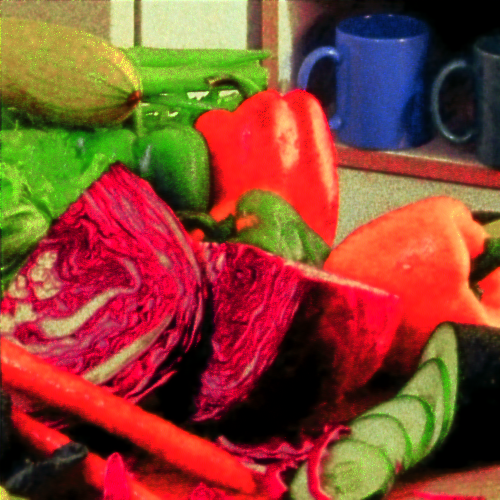
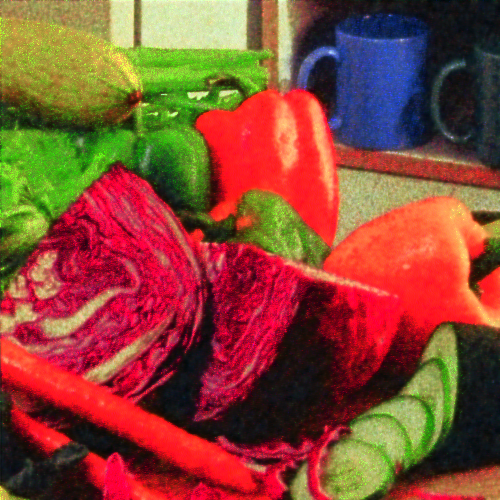
latest commit

diff --git a/random_noise.py b/random_noise.py
@@ -1,0 +1,55 @@
+import os
+import cv2
+import numpy as np
+from skimage import util, io
+from glob import glob
+
+# Function to add a random combination of noise to the image
+def add_random_combined_noise(image):
+    # Apply a combination of Gaussian, Poisson, and speckle noise
+    image = add_gaussian_noise(image)
+    image = add_poisson_noise(image)
+    image = add_speckle_noise(image)
+    return image
+
+# Function to add Gaussian noise
+def add_gaussian_noise(image, mean=0, var=0.01):
+    noisy_image = util.random_noise(image, mode='gaussian', mean=mean, var=var)
+    return (noisy_image * 255).astype(np.uint8)
+
+# Function to add Poisson noise
+def add_poisson_noise(image):
+    noisy_image = util.random_noise(image, mode='poisson')
+    return (noisy_image * 255).astype(np.uint8)
+
+# Function to add speckle noise
+def add_speckle_noise(image):
+    noisy_image = util.random_noise(image, mode='speckle')
+    return (noisy_image * 255).astype(np.uint8)
+
+# Create a folder to save noisy images
+output_folder = 'noisy_images'
+os.makedirs(output_folder, exist_ok=True)
+
+# Path to the folder containing ground truth TIFF images
+input_folder = 'testset/McM/HR'
+
+tif_files = glob(os.path.join(input_folder, '*.tif'))
+
+# Process each TIFF image
+for file_path in tif_files:
+    # Read the image
+    image = io.imread(file_path)
+    if image.ndim == 2:  # Convert grayscale to RGB
+        image = cv2.cvtColor(image, cv2.COLOR_GRAY2RGB)
+    
+    # Apply a random combination of noise
+    noisy_image = add_random_combined_noise(image)
+    
+    # Save the image with the same name in the output folder
+    base_filename = os.path.splitext(os.path.basename(file_path))[0]
+    output_path = os.path.join(output_folder, f'{base_filename}.png')
+    cv2.imwrite(output_path, cv2.cvtColor(noisy_image, cv2.COLOR_RGB2BGR))
+    print(f'Saved: {output_path}')
+
+print('All noisy images have been created and saved.')

diff --git a/README.md b/README.md
@@ -56,6 +56,7 @@ python main_test_swinir.py \
     --folder_gt testset/McM/HR \
     --folder_lq testset/McM/McM_poisson_20
 ```
+Note: Change the appropriate path depending on the images being tested
 
 ### Training
 **Note**: Training from scratch is not recommended as it is a complex and computationally expensive process. It is highly encouraged to use the provided pretrained models for most use cases. However, if you wish to train the model, follow the instructions below:
